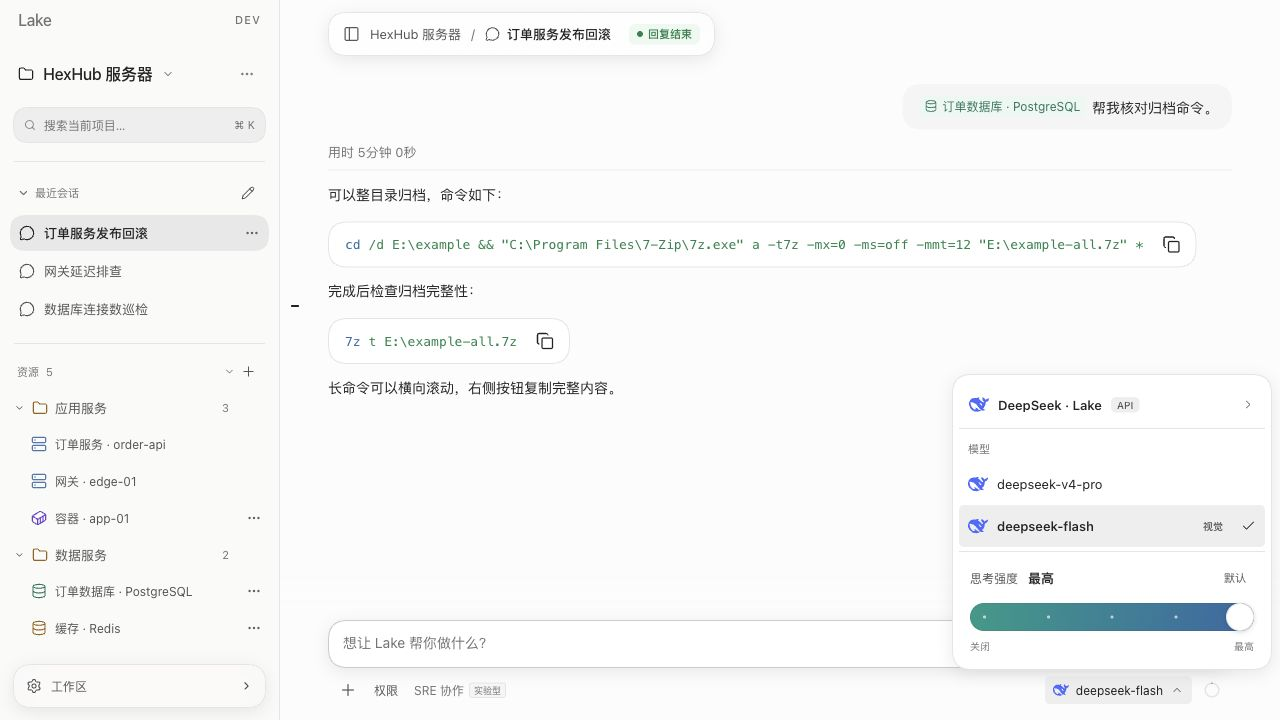
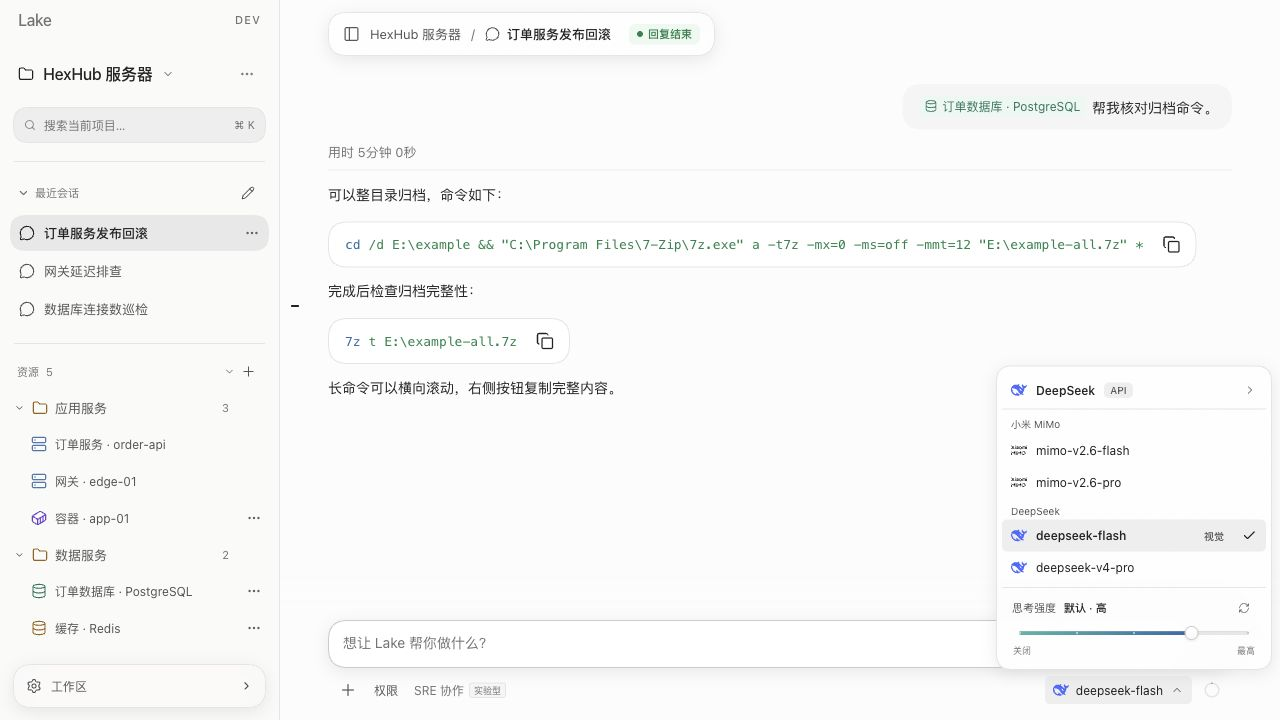
refactor(ui): compact model panel with fine slider and shared glass material

Changed region(s): [[0.75, 0.5194, 0.9688, 0.9167], [0.9375, 0.7028, 0.9688, 0.7639], [0.9688, 0.8861, 1.0, 0.9167]]

diff --git a/web-agent/web/src/composerModelSelect.css b/web-agent/web/src/composerModelSelect.css
@@ -4,7 +4,6 @@
 .composer-model-select.app-select > .app-select-trigger[aria-expanded="true"]:not(:focus-visible) { outline: none; }
 .composer-model-setup { display: inline-flex; align-items: center; gap: 7px; height: 28px; padding: 0 8px; border: 0; border-radius: var(--radius-control); background: transparent; color: var(--text-secondary); font: inherit; font-size: 12px; white-space: nowrap; }
 .composer-model-setup:hover:not(:disabled) { background: var(--surface-hover); color: var(--foreground); }
-.composer-model-popup .app-select-option { min-height: 38px; }
 .composer-model-heading { padding: 7px 9px; color: var(--text-muted); font-size: 11px; }
 .composer-model-search { display: flex; align-items: center; gap: 7px; margin: 2px 5px 7px; padding: 0 9px; border: 1px solid var(--border); border-radius: var(--radius-control); color: var(--text-muted); }
 .composer-model-search:focus-within { border-color: var(--focus); }
@@ -12,49 +11,62 @@
 .composer-model-label { display: flex; flex-direction: column; gap: 2px; min-width: 0; }
 .composer-model-label > span { overflow-wrap: anywhere; }
 .composer-model-label small { color: var(--text-muted); font-size: 11px; font-weight: 400; overflow-wrap: anywhere; }
-.composer-model-settings { display: flex; align-items: center; gap: 9px; width: 100%; min-height: 36px; padding: 8px 9px; border: 0; border-radius: var(--radius-control); background: transparent; color: var(--text-secondary); font: inherit; font-size: 12px; text-align: left; cursor: pointer; }
-.composer-model-settings span { flex: 1; }
-.composer-model-settings:hover { background: var(--surface-hover); color: var(--foreground); }
-.composer-model-settings:focus-visible { outline: 2px solid var(--focus); outline-offset: -2px; }
 .composer-model-note { margin: 6px 9px; color: var(--text-secondary); font-size: 11px; line-height: 1.6; }
 @media (max-width:700px) { .composer-model-select.app-select { max-width: 180px; } }
 
 /* One compact Lake surface for source, model and reasoning. */
-.composer-model-popup { padding: 6px; border-radius: var(--radius-window); corner-shape: var(--corner-window); }
-.composer-provider-heading { display: flex; align-items: center; gap: 9px; width: 100%; min-height: 48px; padding: 10px; border: 0; border-bottom: 1px solid var(--border); background: transparent; color: var(--foreground); font: inherit; text-align: left; cursor: pointer; }
+.composer-model-popup {
+  padding: 5px; border-radius: 18px; corner-shape: var(--corner-window); font-size: 12px;
+  background: var(--title-glass-sheen),var(--title-glass-background);
+  -webkit-backdrop-filter: var(--title-glass-filter);
+  backdrop-filter: var(--title-glass-filter);
+  box-shadow: inset 0 1px color-mix(in srgb,var(--surface) 65%,transparent),var(--shadow-popover);
+}
+.composer-provider-heading { display: flex; align-items: center; gap: 9px; width: 100%; min-height: 38px; padding: 7px 9px; border: 0; border-bottom: 1px solid var(--border); background: transparent; color: var(--foreground); font: inherit; text-align: left; cursor: pointer; }
 .composer-provider-heading > span { min-width: 0; overflow: hidden; text-overflow: ellipsis; white-space: nowrap; font-weight: 550; }
 .composer-provider-heading > small,.composer-model-capability { flex-shrink: 0; border-radius: var(--radius-control); padding: 2px 6px; color: var(--text-secondary); background: var(--surface-hover); font-size: 10px; font-weight: 500; }
 .composer-provider-arrow { margin-left: auto; flex-shrink: 0; color: var(--text-muted); }
 .composer-provider-heading:hover { background: var(--surface-hover); }
 .composer-provider-heading:focus-visible { outline-offset: -2px; }
-.composer-model-popup .composer-model-heading { padding-top: 12px; }
-.composer-model-popup .app-select-option { min-height: 42px; }
+.composer-model-popup .composer-model-heading { padding: 7px 9px 3px; font-size: 10px; }
+.composer-model-popup .app-select-group { padding: 7px 9px 3px; font-size: 10px; }
+.composer-model-popup .app-select-option { min-height: 32px; padding: 6px 9px; }
+.composer-model-popup .composer-model-label small { font-size: 10px; }
 .composer-model-popup .composer-model-label { flex: 1; }
 .composer-model-popup .app-select-footer { padding-top: 0; }
-.composer-reasoning-panel { padding: 14px 11px 10px; }
-.composer-reasoning-heading { display: flex; align-items: center; gap: 10px; min-height: 24px; margin-bottom: 13px; }
-.composer-reasoning-heading > span { color: var(--text-secondary); font-size: 12px; }
-.composer-reasoning-heading > strong { font-size: 13px; font-weight: 550; }
-.composer-reasoning-default { margin-left: auto; padding: 3px 8px; border: 0; border-radius: var(--radius-control); background: transparent; color: var(--text-secondary); font: inherit; font-size: 11px; cursor: pointer; }
-.composer-reasoning-default[aria-pressed="true"] { background: var(--surface-hover); color: var(--foreground); }
-.composer-reasoning-default:hover:not(:disabled) { background: var(--surface-hover); }
-.composer-reasoning-track { position: relative; height: 28px; border-radius: 14px; background: linear-gradient(100deg,var(--chart-2),var(--info)); box-shadow: inset 0 0 0 1px color-mix(in srgb,var(--foreground) 7%,transparent); }
-.composer-reasoning-track::after { content: ""; position: absolute; inset: 0 0 0 var(--reasoning-fill); border-radius: inherit; background: color-mix(in srgb,var(--surface) 68%,transparent); pointer-events: none; }
-.composer-reasoning-track input { position: absolute; z-index: 2; inset: -3px 0; appearance: none; -webkit-appearance: none; width: 100%; height: 34px; margin: 0; border: 0; padding: 0; background: transparent; cursor: pointer; }
-.composer-reasoning-track input::-webkit-slider-runnable-track { height: 28px; background: transparent; border-radius: 14px; }
-.composer-reasoning-track input::-webkit-slider-thumb { appearance: none; -webkit-appearance: none; width: 28px; height: 28px; border: 1px solid var(--border); border-radius: 50%; background: var(--surface); box-shadow: 0 1px 5px #0003; }
-.composer-reasoning-track input::-moz-range-track { height: 28px; background: transparent; }
-.composer-reasoning-track input::-moz-range-thumb { width: 26px; height: 26px; border: 1px solid var(--border); border-radius: 50%; background: var(--surface); box-shadow: 0 1px 5px #0003; }
-.composer-reasoning-track input:focus-visible { outline: 2px solid var(--focus); outline-offset: 4px; border-radius: 16px; }
+.composer-reasoning-panel { padding: 9px 10px 7px; }
+.composer-reasoning-heading { display: flex; align-items: center; gap: 8px; min-height: 22px; margin-bottom: 2px; }
+.composer-reasoning-heading > span { color: var(--text-secondary); font-size: 11px; }
+.composer-reasoning-heading > strong { font-size: 11px; font-weight: 500; }
+.composer-reasoning-default { display: grid; place-items: center; width: 24px; height: 22px; margin-left: auto; padding: 0; border: 0; border-radius: var(--radius-control); background: transparent; color: var(--text-muted); cursor: pointer; }
+.composer-reasoning-default:hover:not(:disabled) { background: var(--surface-hover); color: var(--foreground); }
+/* Keep a generous hit area around a fine rail; thumb and fill share one mapping. */
+.composer-reasoning-track { position: relative; height: 24px; }
+.composer-reasoning-track::before,.composer-reasoning-track::after { content: ""; position: absolute; top: 10px; left: 7px; height: 4px; border-radius: 2px; pointer-events: none; }
+.composer-reasoning-track::before { right: 7px; background: color-mix(in srgb,var(--text-muted) 17%,var(--surface)); box-shadow: inset 0 1px 1px color-mix(in srgb,var(--foreground) 5%,transparent); }
+.composer-reasoning-track::after { width: calc((100% - 14px) * var(--reasoning-progress)); background: linear-gradient(100deg,color-mix(in srgb,var(--chart-2) 75%,var(--surface)),var(--info)); box-shadow: inset 0 1px color-mix(in srgb,var(--surface) 16%,transparent); }
+.composer-reasoning-track input { position: absolute; z-index: 2; inset: 0; appearance: none; -webkit-appearance: none; width: 100%; height: 24px; margin: 0; border: 0; padding: 0; background: transparent; cursor: pointer; }
+.composer-reasoning-track input::-webkit-slider-runnable-track { height: 4px; background: transparent; }
+.composer-reasoning-track input::-webkit-slider-thumb { appearance: none; -webkit-appearance: none; width: 14px; height: 14px; margin-top: -5px; border: 1px solid var(--border-strong); border-radius: 50%; background: linear-gradient(var(--surface),var(--surface-subtle)); box-shadow: 0 1px 3px color-mix(in srgb,var(--foreground) 15%,transparent),inset 0 1px color-mix(in srgb,var(--surface) 90%,transparent); }
+.composer-reasoning-track input::-moz-range-track { height: 4px; background: transparent; }
+.composer-reasoning-track input::-moz-range-thumb { width: 12px; height: 12px; border: 1px solid var(--border-strong); border-radius: 50%; background: linear-gradient(var(--surface),var(--surface-subtle)); box-shadow: 0 1px 3px color-mix(in srgb,var(--foreground) 15%,transparent); }
+.composer-reasoning-track input:focus-visible { outline: 2px solid var(--focus); outline-offset: 2px; border-radius: var(--radius-control); }
 .composer-reasoning-track input:disabled { cursor: default; }
-.composer-reasoning-ticks { position: absolute; z-index: 1; inset: 0 13px; display: flex; align-items: center; justify-content: space-between; pointer-events: none; }
-.composer-reasoning-ticks i { width: 3px; height: 3px; border-radius: 50%; background: color-mix(in srgb,var(--surface) 65%,transparent); }
-.composer-reasoning-scale { display: flex; justify-content: space-between; margin-top: 8px; color: var(--text-muted); font-size: 10px; }
+.composer-reasoning-ticks { position: absolute; z-index: 1; inset: 0 7px; display: flex; align-items: center; justify-content: space-between; pointer-events: none; }
+.composer-reasoning-ticks i { width: 2px; height: 2px; border-radius: 50%; background: color-mix(in srgb,var(--text-muted) 45%,var(--surface)); }
+.composer-reasoning-ticks i[data-active] { background: color-mix(in srgb,var(--surface) 70%,transparent); }
+.composer-reasoning-scale { display: flex; justify-content: space-between; margin: 0 1px; color: var(--text-muted); font-size: 9px; line-height: 12px; }
 .composer-reasoning-hint,.composer-reasoning-error { margin: 9px 0 0; font-size: 11px; line-height: 1.5; color: var(--text-secondary); }
 .composer-reasoning-error { color: var(--danger); overflow-wrap: anywhere; }
 .composer-reasoning-error button { margin-left: 8px; border: 0; background: transparent; color: inherit; text-decoration: underline; cursor: pointer; }
 .composer-reasoning-single { padding: 5px 12px; border: 1px solid var(--border); border-radius: var(--radius-control); background: var(--surface-hover); color: var(--foreground); font: inherit; }
-@media (pointer: coarse) { .composer-reasoning-track input { inset-block: -8px; height: 44px; } }
+@media (pointer: coarse) {
+  .composer-model-popup .app-select-option,.composer-provider-heading { min-height: 44px; }
+  .composer-reasoning-default { width: 44px; height: 44px; }
+  .composer-reasoning-track { height: 44px; }
+  .composer-reasoning-track input { height: 44px; }
+  .composer-reasoning-track::before,.composer-reasoning-track::after { top: 20px; }
+}
 
 @media (max-height: 520px) {
   .composer-model-popup { overflow-y: auto; }

diff --git a/web-agent/web/src/ComposerModelSelect.tsx b/web-agent/web/src/ComposerModelSelect.tsx
@@ -18,14 +18,14 @@ export function ComposerModelSelect({available,modelName,selection,configured,op
   const groups=[...new Set(visible.map(row=>row.groupId))];
   const note=available.message&&(available.source==="magpie"||!available.models.length)?available.message:"";
   const label=configured?(current?.displayName||modelName?.split("/").pop()||"已配置"):"选择模型";
-  return <AppSelect className={`composer-model-select ${configured?"":"model-missing"}`} popupClassName="composer-model-popup" popupMinWidth={320} popupMaxHeight={520}
+  return <AppSelect className={`composer-model-select ${configured?"":"model-missing"}`} popupClassName="composer-model-popup" popupMinWidth={276} popupMaxHeight={420}
     label={configured?`选择模型：${label}${current?.providerName?` · ${current.providerName}`:""}`:"选择模型"} title={modelName&&label!==modelName?`${label}\n${modelName}`:label} value={current?JSON.stringify([current.providerId,current.modelId]):modelName||""} renderValue={label}
     icon={<ProviderIcon brand={modelBrand(modelName||"",current?.displayName,current?.providerName)} size={16}/>}
     open={open} aria-busy={disabled} onOpenChange={next=>{if(next&&disabled) return;if(next) setSearch("");onOpenChange(next);}}
     onChange={event=>{const row=rows.find(row=>row.value===event.target.value);if(row) onSelect(row.model);}}
-    popupHeader={({listId,activeId})=><><button type="button" className="composer-provider-heading" onClick={onSettings}><ProviderIcon brand={modelBrand(modelName||"",current?.displayName,current?.providerName)} size={20}/><span>{current?.providerName||"模型设置"}</span><small>{available.source==="magpie"?"Magpie":"API"}</small><Glyph name="next" size={14} className="composer-provider-arrow"/></button><div className="composer-model-heading">模型</div>{rows.length>8&&<label className="composer-model-search"><Glyph name="search" size={15}/><input autoFocus role="combobox" aria-expanded={open} aria-controls={listId} aria-activedescendant={activeId} aria-autocomplete="list" aria-label="搜索模型" placeholder="搜索模型或厂商…" value={search} onChange={event=>setSearch(event.target.value)}/></label>}</>}
+    popupHeader={({listId,activeId})=><><button type="button" className="composer-provider-heading" onClick={onSettings}><ProviderIcon brand={modelBrand(modelName||"",current?.displayName,current?.providerName)} size={16}/><span>{current?.providerName||"模型设置"}</span><small>{available.source==="magpie"?"Magpie":"API"}</small><Glyph name="next" size={14} className="composer-provider-arrow"/></button>{groups.length<=1&&<div className="composer-model-heading">模型</div>}{rows.length>8&&<label className="composer-model-search"><Glyph name="search" size={15}/><input autoFocus role="combobox" aria-expanded={open} aria-controls={listId} aria-activedescendant={activeId} aria-autocomplete="list" aria-label="搜索模型" placeholder="搜索模型或厂商…" value={search} onChange={event=>setSearch(event.target.value)}/></label>}</>}
     emptyMessage={available.loading?"正在获取可用模型…":query?"没有找到匹配的模型":note||"暂无可用模型，请先添加供应商。"}
     popupFooter={<>{reasoning}{note&&rows.length>0&&<p className="composer-model-note">{note}</p>}</>}
-    renderOption={option=>{const row=rows.find(row=>row.value===option.value)!;return <><ProviderIcon brand={modelBrand(row.name,row.label,row.group)} size={20}/><span className="composer-model-label"><span>{row.label}</span>{row.name!==row.label&&<small>{row.name}</small>}</span>{available.imageInputCapabilities?.[row.name]&&<small className="composer-model-capability">视觉</small>}</>;}}
+    renderOption={option=>{const row=rows.find(row=>row.value===option.value)!;return <><ProviderIcon brand={modelBrand(row.name,row.label,row.group)} size={16}/><span className="composer-model-label"><span>{row.label}</span>{row.name!==row.label&&<small>{row.name}</small>}</span>{available.imageInputCapabilities?.[row.name]&&<small className="composer-model-capability">视觉</small>}</>;}}
   >{groups.map(group=>group&&groups.length>1?<optgroup key={group} label={visible.find(row=>row.groupId===group)!.group}>{visible.filter(row=>row.groupId===group).map(row=><option key={row.value} value={row.value} disabled={disabled}>{row.label}</option>)}</optgroup>:visible.filter(row=>row.groupId===group).map(row=><option key={row.value} value={row.value} disabled={disabled}>{row.label}</option>))}</AppSelect>;
 }

diff --git a/web-agent/web/src/ReasoningSelector.tsx b/web-agent/web/src/ReasoningSelector.tsx
@@ -1,6 +1,7 @@
 import { useEffect, useRef, useState, type CSSProperties } from "react";
 import type { ReasoningSettings } from "../../shared/contracts";
 import { api, readableError } from "./api";
+import { Glyph } from "./Icons";
 
 const labels: Record<string, string> = { "": "默认", none: "关闭", minimal: "极低", low: "低", medium: "中", high: "高", xhigh: "极高", max: "最高", ultra: "极致" };
 
@@ -37,19 +38,19 @@ export function ReasoningSelector({ session, modelId, disabled, disabledReason, 
   const effort = preview ?? (valid ? settings.effort : "");
   const effective = effort || (valid ? settings.default : "") || levels[0];
   const index = Math.max(0, levels.indexOf(effective || ""));
-  const label = valid ? labels[effort] ?? effort : error ? "读取失败" : "读取中…";
+  const label = valid ? effort ? labels[effort] ?? effort : `默认${settings.default ? ` · ${labels[settings.default] ?? settings.default}` : ""}` : error ? "读取失败" : "读取中…";
   const hint = busy ? "正在保存…" : disabled ? disabledReason || "当前暂不能调整思考强度。" : "";
   const unavailable = disabled || busy || !valid;
   return <section className="composer-reasoning-panel" aria-label="思考强度" aria-busy={busy}>
-    <div className="composer-reasoning-heading"><span>思考强度</span><strong aria-live="polite">{label}</strong><button type="button" className="composer-reasoning-default" disabled={unavailable} aria-pressed={valid && settings.effort === ""} title={valid && settings.default ? `模型默认：${labels[settings.default] ?? settings.default}` : "使用模型默认级别"} onClick={() => void select("")}>默认</button></div>
-    {valid && (levels.length > 1 ? <div className="composer-reasoning-track" style={{"--reasoning-fill":`${index / (levels.length - 1) * 100}%`} as CSSProperties}>
+    <div className="composer-reasoning-heading"><span>思考强度</span><strong aria-live="polite">{label}</strong><button type="button" className="composer-reasoning-default" disabled={unavailable} aria-label="恢复模型默认强度" aria-pressed={valid && settings.effort === ""} title={valid && settings.default ? `模型默认：${labels[settings.default] ?? settings.default}` : "使用模型默认级别"} onClick={() => void select("")}><Glyph name="refresh" size={12}/></button></div>
+    {valid && (levels.length > 1 ? <div className="composer-reasoning-track" style={{"--reasoning-progress":index / (levels.length - 1)} as CSSProperties}>
       <input type="range" min={0} max={levels.length - 1} step={1} value={index} aria-label="思考强度" aria-valuetext={labels[effective || ""] ?? effective} disabled={unavailable}
         onChange={event => setPreview(levels[Number(event.target.value)] ?? null)}
         onPointerUp={event => void select(levels[Number(event.currentTarget.value)]!)}
         onPointerCancel={() => setPreview(null)}
         onKeyUp={event => { if (["ArrowLeft", "ArrowRight", "ArrowUp", "ArrowDown", "Home", "End"].includes(event.key)) void select(levels[Number(event.currentTarget.value)]!); }}
         onBlur={() => { if (preview !== null) void select(preview); }}/>
-      <div className="composer-reasoning-ticks" aria-hidden="true">{levels.map(level => <i key={level}/>)}</div>
+      <div className="composer-reasoning-ticks" aria-hidden="true">{levels.map((level,step) => <i key={level} data-active={step <= index || undefined}/>)}</div>
     </div> : <button className="composer-reasoning-single" type="button" disabled={unavailable} onClick={() => void select(levels[0]!)}>{labels[levels[0]!] ?? levels[0]}</button>)}
     {valid && levels.length > 1 && <div className="composer-reasoning-scale" aria-hidden="true"><span>{labels[levels[0]!] ?? levels[0]}</span><span>{labels[levels.at(-1)!] ?? levels.at(-1)}</span></div>}
     {hint && <p className="composer-reasoning-hint">{hint}</p>}

diff --git a/web-agent/web/src/AppSelect.tsx b/web-agent/web/src/AppSelect.tsx
@@ -71,7 +71,11 @@ export function AppSelect({children,value,defaultValue,onChange,disabled=false,i
     const reposition=(event:Event)=>{if (!popup.current?.contains(event.target as Node)) place();};
     document.addEventListener("pointerdown",outside,true);
     window.addEventListener("resize",reposition);window.addEventListener("scroll",reposition,true);
-    return()=>{document.removeEventListener("pointerdown",outside,true);window.removeEventListener("resize",reposition);window.removeEventListener("scroll",reposition,true);};
+    // Embedded viewports can change layout before a window resize event arrives.
+    const resizeObserver=new ResizeObserver(()=>place());
+    resizeObserver.observe(document.documentElement);
+    if(trigger.current) resizeObserver.observe(trigger.current);
+    return()=>{resizeObserver.disconnect();document.removeEventListener("pointerdown",outside,true);window.removeEventListener("resize",reposition);window.removeEventListener("scroll",reposition,true);};
   });
   useEffect(()=>{if (open) popup.current?.querySelector<HTMLElement>(`[data-option-index="${active}"]`)?.scrollIntoView({block:"nearest"});},[open,active]);
   function onKeyDown(event:KeyboardEvent<HTMLElement>) {

diff --git a/web-agent/web/test/fixtures/composer-model-workbench.tsx b/web-agent/web/test/fixtures/composer-model-workbench.tsx
@@ -1,8 +1,11 @@
 // Actual App/composer with the existing fictional workspace; no live backend.
 import './workspace-heading';
 const inheritedFetch=window.fetch.bind(window);
-const entries=['deepseek-v4-pro','deepseek-flash'].map(name=>({providerId:'demo-provider',providerName:'DeepSeek · Lake',modelId:name,name,displayName:name}));
-let selected=entries[1]!;
+const entries=[
+ ...['mimo-v2.6-flash','mimo-v2.6-pro'].map(name=>({providerId:'mimo',providerName:'小米 MiMo',modelId:name,name,displayName:name})),
+ ...['deepseek-flash','deepseek-v4-pro'].map(name=>({providerId:'demo-provider',providerName:'DeepSeek',modelId:name,name,displayName:name})),
+];
+let selected=entries[2]!;
 const efforts:Record<string,string>={};
 window.fetch=async(input,init)=>{
  const url=new URL(typeof input==='string'?input:input instanceof URL?input.href:input.url,location.href);

diff --git a/docs/ui-guidelines.md b/docs/ui-guidelines.md
@@ -8,7 +8,7 @@
 
 “新建资源”弹窗暂只提供 SSH 主机，类型选项及说明不展示数据库、Redis 和 Docker。此限制仅针对手动新建入口，保留已有其他资源及其服务能力。
 
-聊天输入框将模型与思考强度合并到同一个 `AppSelect` 弹层，工具栏仅保留带 `ProviderIcon` 的 28px 模型入口。弹层顶部显示当前供应商及配置入口，中部按来源分组展示真实可用模型与视觉能力，下部通过 footer 插槽展示会话的思考强度，不另建模型弹层或嵌套下拉。思考强度使用离散滑杆，仅使用服务端返回的支持档位，沿用主题青绿到蓝色的渐变与中性圆形手柄，保留“默认”按钮及当前级别文字。拖动时仅预览，松开或键盘调整结束后保存；方向键、Home/End 不触发模型列表选择，Escape 关闭整个弹层。切换模型后重新读取能力，未知、加载失败、运行或保存期间不可调整；错误在弹层内展示并支持重试。无思考能力的模型不显示该分区。默认项保留模型默认语义，不能将默认偷偷保存为显式档位。模型列表继续使用公共定位、勾选、搜索及键盘行为，适配窄窗口、深色主题和长列表滚动。
+聊天输入框将模型与思考强度合并到同一个 `AppSelect` 弹层，工具栏仅保留带 `ProviderIcon` 的 28px 模型入口。弹层顶部显示当前供应商及配置入口，中部按来源分组展示真实可用模型与视觉能力，下部通过 footer 插槽展示会话的思考强度，不另建模型弹层或嵌套下拉。思考强度使用离散滑杆，仅使用服务端返回的支持档位，采用 4px 细轨道、14px 中性圆形滑钮及低饱和度青蓝填充，保留当前级别文字和带无障碍名称的恢复默认图标；使用默认时显示“默认 · 模型实际默认档位”。弹层桌面宽约 276px、模型行高 32px、供应商行高 38px，减少分组与底部留白；触摸设备保留至少 44px 点击区。卡片复用顶部会话标题的 `--title-glass-*` 材质变量，保持相同的透光、18px 模糊、饱和度与边缘反光，减少透明度及不支持背景模糊时沿用主题实色回退。拖动时仅预览，松开或键盘调整结束后保存；方向键、Home/End 不触发模型列表选择，Escape 关闭整个弹层。切换模型后重新读取能力，未知、加载失败、运行或保存期间不可调整；错误在弹层内展示并支持重试。无思考能力的模型不显示该分区。默认项保留模型默认语义，不能将默认偷偷保存为显式档位。模型列表继续使用公共定位、勾选、搜索及键盘行为，适配窄窗口、深色主题和长列表滚动。
 
 输入框默认提示使用“想让 Lake 帮你做什么？”，引用类型在 `@` 菜单展示；排队、待确认时继续显示对应状态提示。思考强度在运行或保存期间保留当前级别与完整不透明度，通过禁用语义及弹层内说明表达暂不能调整。
 
